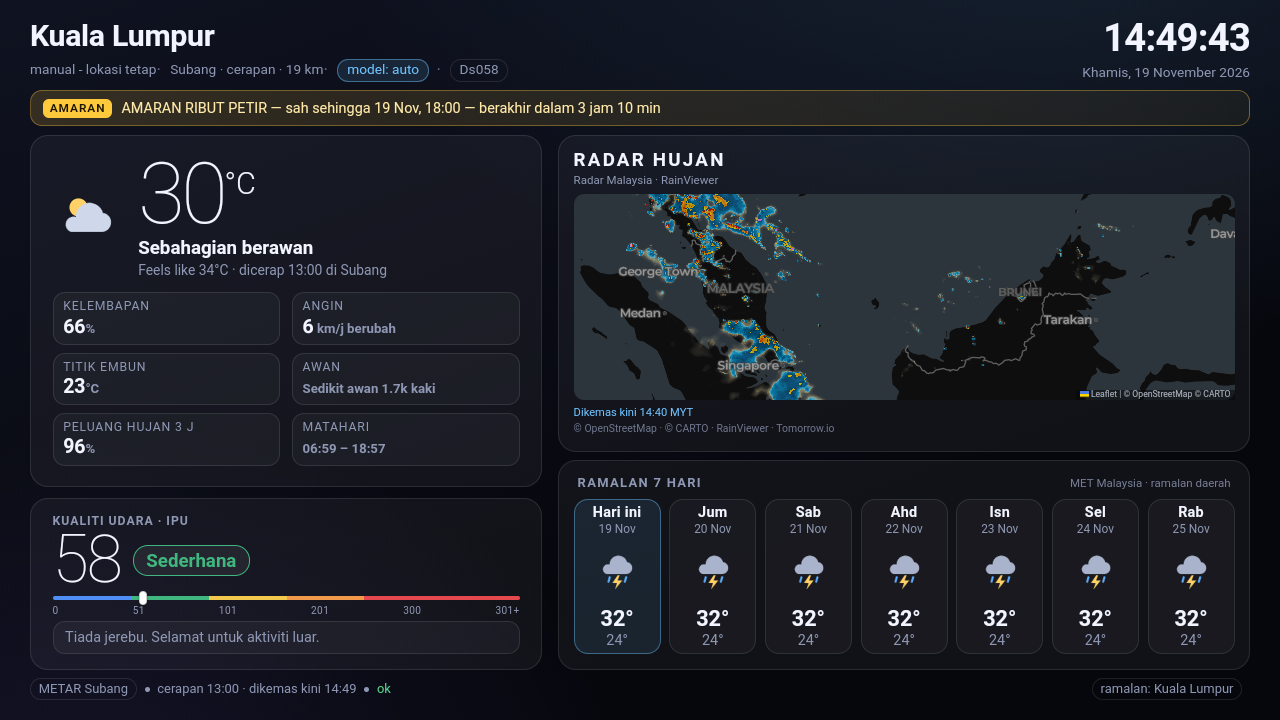
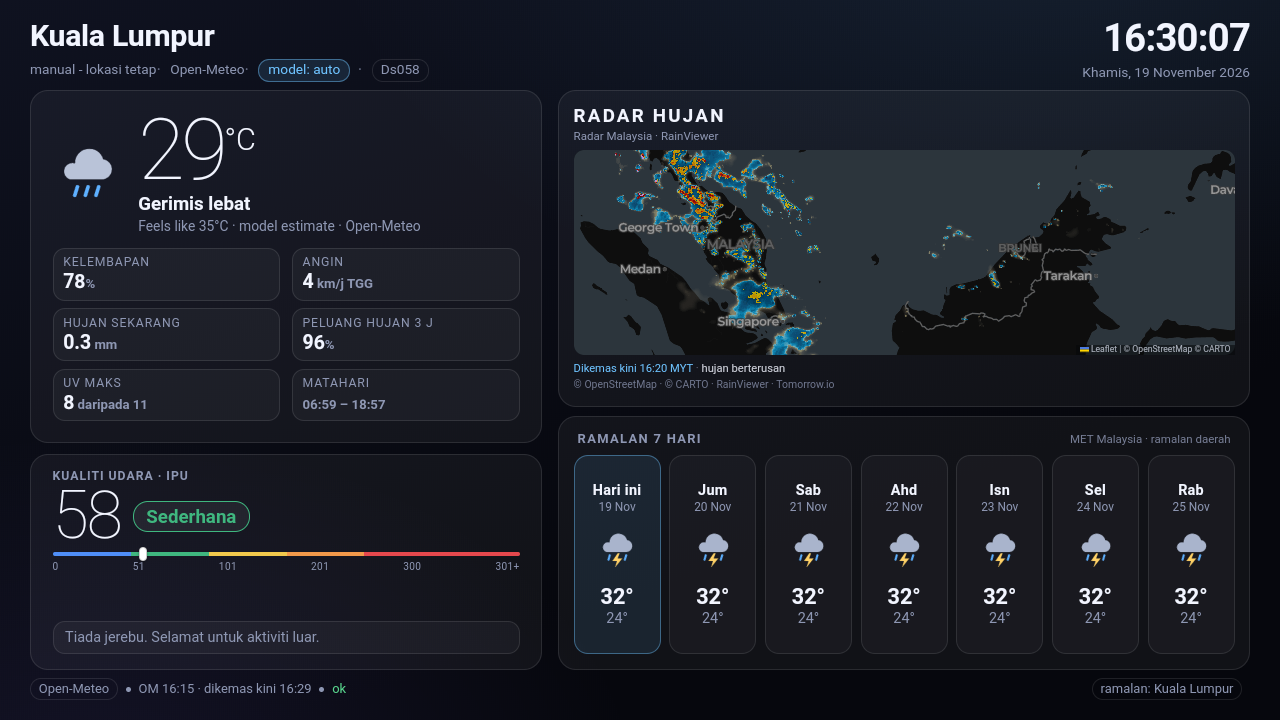
Keep station choices and offline fallback out of the public repo
- METAR station is now an optional ICAO id in kiosk.local.json; the page shows a generic 'stesen METAR' label and no station distance

- air-quality station-name fallback moved to kiosk.local.json; nearest-station matching is unchanged

- offline fallback uses the first district with coordinates from the public table instead of a hardcoded home district

- docs/kiosk.png recaptured with the generic label and no station name; README/AGENTS/SECURITY updated

diff --git a/static/index.html b/static/index.html
@@ -250,7 +250,7 @@
    ===================================================================== */
 const CONFIG = {
   // Manual override. When set, ISP geolocation is skipped entirely.
-  //   locationId : MET forecast location id (see data/locations.json, e.g. "Ds054")
+  //   locationId : MET forecast location id (see data/locations.json, e.g. "Ds001")
   //   lat/lon    : point used for the "current conditions" tile
   //   region     : state name, used to match MET advisories
   // Set to null to resolve from your ISP's IP geolocation instead.
@@ -262,14 +262,26 @@ const CONFIG = {
   // location via the "Set Location" dialog in the app without editing code.
   manual: /*__MANUAL__*/null,
 
-  // Weather source priority: Open-Meteo (1st) -> OpenWeatherMap (2nd) -> METAR Subang (3rd).
+  // Optional METAR station ICAO id for the ground-truth fallback. The
+  // repository ships null: a fresh clone simply skips that fallback (the
+  // keyless Open-Meteo path still works). Put your nearest airport's id in
+  // kiosk.local.json (git-ignored); build_html.py injects it. No station list
+  // or location hint is stored in the repository.
+  metarStation: /*__METAR__*/null,
+
+  // Optional station-name fallback for air quality when coordinates are
+  // unavailable. The nearest station normally wins, so the repo ships "".
+  hazeStation: /*__HAZE__*/"",
+
+  // Weather source priority: Open-Meteo (1st) -> OpenWeatherMap (2nd) ->
+  // a configured METAR station (3rd).
   // preferredModel: "auto" (priority chain above) | "openmeteo" | "openweathermap" | "metar"
   // Set a specific model to pin to one source regardless of priority.
   preferredModel: "auto",
 
   // Prefer a fresh airport observation (real METAR) over the model for the big
-  // current-conditions tile. Models run 2-3 C cold under KL's afternoon cloud
-  // and invent drizzle the airport is not reporting; an observation within
+  // current-conditions tile. Models run 2-3 C cold under tropical afternoon
+  // cloud and invent drizzle the airport is not reporting; an observation within
   // ~110 min is still better ground truth than a wrong model value.
   // Set false to always show the model value.
   preferObservation: true,
@@ -340,7 +352,7 @@ const dateFromYmd = ymd => new Date(ymd + "T12:00:00");
 const dayShort = ymd => DAY_SHORT[dateFromYmd(ymd).getDay()];
 const dateShort = ymd => { const d = dateFromYmd(ymd); return pad(d.getDate()) + " " + MONTH_SHORT[d.getMonth()]; };
 const dateTimeShort = t => { const d = dateFromYmd(ymdTZ(t)); return pad(d.getDate()) + " " + MONTH_SHORT[d.getMonth()] + ", " + clockHM(t); };
-const HAZE_STATION = "Kuala Lumpur";
+const HAZE_STATION = CONFIG.hazeStation;
 const HAZE_URL = "/api/haze";   // same origin — served locally by the kiosk app
 const HAZE_BANDS = ["Baik", "Sederhana", "Tidak Sihat", "Sangat Tidak Sihat", "Berbahaya"];
 const HAZE_COLORS = ["#4F8EF7", "#3FB77F", "#F2C94C", "#F2994A", "#E5484D"];
@@ -762,7 +774,9 @@ async function resolveLocation() {
   }
 
   if (!isp) {
-    const def = LOCATIONS.find(l => l.id === "Ds054") || LOCATIONS[0];
+    // No network at all: any district from the public table will do, so the
+    // panel still renders. Don't hard-code one person's home district.
+    const def = LOCATIONS.find(l => l.lat != null) || LOCATIONS[0];
     return { locationId: def.id, name: def.name, lat: def.lat, lon: def.lon, via: "fallback (ISP lookup failed)" };
   }
 
@@ -855,18 +869,14 @@ async function fetchMetForecast(loc) {
 
 /* ---- current conditions -------------------------------------------------
    Preference order:
-     1. a real METAR observation from the nearest MET airport station
-        (Subang WMSA, or KLIA WMKK) - this is what "no rain here" looks like;
+     1. a real METAR observation from the station configured in kiosk.local.json
+        (an ICAO id; the repository ships none) - this is "no rain here";
      2. otherwise an Open-Meteo model estimate, clearly labelled as such.
 
-   A single model blend is unreliable in convective weather: on 2026-10-30 the
-   default blend claimed 0.7 mm of showers over Kuala Lumpur while Subang was
-   reporting 33 C, 10 km visibility and no rain at all.
+   A single model blend is unreliable in convective weather: it can claim
+   showers while the nearest airport reports 33 C, 10 km visibility and no
+   rain at all. A fresh observation is better ground truth.
    ---------------------------------------------------------------------- */
-const METAR_STATIONS = [
-  { id: "WMSA", name: "Subang", lat: 3.1306, lon: 101.5493 },
-  { id: "WMKK", name: "KLIA",   lat: 2.7456, lon: 101.7099 }
-];
 
 const WX_TOKEN = /^[-+]?(VC)?(TS|SH|RA|DZ|GR|GS|SN|BR|HZ|FG|FU|DU|SA|SQ|PO|FC|SS|DS|PL|IC|UP)+$/;
 const CLOUD_LABEL = { FEW: "Sedikit", SCT: "Tersebar", BKN: "Pecah", OVC: "Mendung" };
@@ -909,21 +919,16 @@ function parseMetars(text) {
 }
 
 async function fetchObservation(loc) {
-  if (loc.lat == null || loc.lon == null) return null;
-  const near = METAR_STATIONS
-    .map(s => ({ ...s, km: haversine(loc.lat, loc.lon, s.lat, s.lon) }))
-    .sort((a, b) => a.km - b.km);
-  const r = await fetch("/api/metar?ids=" + near.map(s => s.id).join(","),
+  const id = CONFIG.metarStation;
+  if (!id || loc.lat == null || loc.lon == null) return null;
+  const r = await fetch("/api/metar?ids=" + encodeURIComponent(id),
                         { cache: "no-store" });
   if (!r.ok) throw new Error("METAR HTTP " + r.status);
   const obs = parseMetars(await r.text());
-  for (const s of near) {
-    const o = obs[s.id];
-    if (!o) continue;
-    if ((Date.now() - o.time) / 60000 > 150) continue;   // stale report
-    return { ...o, station: s.name, km: Math.round(s.km) };
-  }
-  return null;
+  const o = obs[id];
+  if (!o) return null;
+  if ((Date.now() - o.time) / 60000 > 150) return null;   // stale report
+  return { ...o, station: "stesen METAR", km: null };
 }
 
 function clockHM(t) {
@@ -1029,7 +1034,7 @@ function popNextHours(hourly, nowIso, hours) {
   } catch (e) { return null; }
 }
 
-/* OpenWeatherMap current conditions - more local than Subang METAR */
+/* OpenWeatherMap current conditions - closer than a distant METAR station */
 const OWM_TO_ICON = {
   200: "storm", 201: "storm", 202: "storm", 210: "storm", 211: "storm", 212: "storm", 221: "storm", 230: "storm", 231: "storm", 232: "storm",
   300: "rain", 301: "rain", 302: "rain", 310: "rain", 311: "rain", 312: "rain", 313: "rain", 314: "rain", 321: "rain",
@@ -1216,7 +1221,7 @@ const MODEL_LABEL = { auto: "auto", openmeteo: "open-meteo", openweathermap: "op
 function renderNow(loc, cur, owm, obs, omFallback) {
   $("placeName").textContent = loc.name;
 
-  /* Fallback chain: Open-Meteo (1st) -> OpenWeatherMap (2nd) -> METAR Subang (3rd) */
+  /* Fallback chain: Open-Meteo (1st) -> OpenWeatherMap (2nd) -> configured METAR (3rd) */
   const sourceLabel = cur ? "Open-Meteo" : (owm ? "OpenWeatherMap" : (obs ? obs.station + " · cerapan" : ""));
   const sourceKm = obs && !cur && !owm ? obs.km : null;
   const modelBtn = '<button type="button" class="badge model-btn" id="modelBadge" title="Sumber model cuaca — tekan untuk tukar">model: ' + escapeHtml(MODEL_LABEL[currentModel()] || "auto") + '</button>';
@@ -1288,7 +1293,7 @@ function renderNow(loc, cur, owm, obs, omFallback) {
     return;
   }
 
-  /* ---- Priority 3: METAR observation at Subang (18 km away) ---- */
+  /* ---- Priority 3: METAR observation from the configured station ---- */
   if (obs) {
     const obsRain = obs ? /(RA|SH|DZ|GR|GS|PL)/.test(obs.wx.join(" ")) : null;
     const hour = Number(new Date(obs.time).toLocaleString("en-GB", {

diff --git a/tools/build_html.py b/tools/build_html.py
@@ -49,22 +49,34 @@ def main():
     data = json.dumps(compact, ensure_ascii=False, separators=(",", ":"))
     html = tpl.replace(marker, data)
 
-    # Home location: kept out of the repository. kiosk.local.json (git-ignored)
-    # may contain {"manual": {"locationId": ..., "lat": ..., "lon": ...}};
-    # without it the page falls back to ISP/GPS resolution.
-    manual_marker = "/*__MANUAL__*/null"
-    if manual_marker not in html:
-        raise SystemExit(f"placeholder {manual_marker!r} not found in {TPL}")
-    manual = "null"
+    # Private settings: kept out of the repository. kiosk.local.json may contain
+    # {"manual": {...}, "metar": "EGLL", "hazeStation": "..."}; without it the
+    # page falls back to ISP/GPS, skips the METAR station and picks the nearest
+    # air-quality station by coordinates.
+    placeholders = {
+        "/*__MANUAL__*/null": "manual",
+        "/*__METAR__*/null": "metar",
+        '/*__HAZE__*/""': "hazeStation",
+    }
+    for marker, key in placeholders.items():
+        if marker not in html:
+            raise SystemExit(f"placeholder {marker!r} not found in {TPL}")
     local = os.path.join(ROOT, "kiosk.local.json")
+    cfg = {}
     try:
         with open(local, encoding="utf-8-sig") as f:
             cfg = json.load(f)
-        if cfg.get("manual"):
-            manual = json.dumps(cfg["manual"], ensure_ascii=False, separators=(",", ":"))
     except (IOError, OSError, ValueError):
         pass
-    html = html.replace(manual_marker, manual)
+    for marker, key in placeholders.items():
+        value = cfg.get(key)
+        if key == "hazeStation":
+            injected = json.dumps(value or "", ensure_ascii=False)
+        elif value:
+            injected = json.dumps(value, ensure_ascii=False, separators=(",", ":"))
+        else:
+            injected = "null"
+        html = html.replace(marker, injected)
 
     os.makedirs(os.path.dirname(OUT), exist_ok=True)
     with open(OUT, "w", encoding="utf-8") as f:

diff --git a/AGENTS.md b/AGENTS.md
@@ -114,10 +114,12 @@ outside the viewport; run it after any layout change.
   git-ignored. Environment variables `TOMORROW_KEY`, `OWM_KEY`, `CARTO_KEY`
   override it. A missing key fails `build_apk.py` on purpose; a running APK
   answers `503 Not Configured` for that proxy.
-- `kiosk.local.json` = `{"manual": {"locationId": "...", "lat": ..., "lon": ...,
-  "region": "...", "note": "..."}}`, git-ignored. It is injected into
-  `CONFIG.manual` by `build_html.py`; the repo ships `manual: null` (ISP/GPS
-  fallback). Never commit home coordinates, a building name or a device address.
+- `kiosk.local.json` = `{"manual": {...}, "metar": "...", "hazeStation": "..."}`,
+  git-ignored. `build_html.py` injects all three; the repo ships `manual: null`,
+  `metarStation: null`, `hazeStation: ""`. Without them the page resolves from
+  GPS/ISP, skips the METAR fallback and picks the nearest air-quality station.
+  Never commit home coordinates, a station id, a building name or a device
+  address. The page shows "stesen METAR", never the configured station name.
 - Read local JSON with `utf-8-sig`: Notepad and PowerShell add a BOM, and plain
   `utf-8` silently returns nothing.
 - Before committing, scan the staged tree (review anything it prints):

diff --git a/README.md b/README.md
@@ -77,7 +77,19 @@ Order of preference (`CONFIG.manual` in `static/index.html`):
    (277 of the 440 districts have coordinates, from geoBoundaries ADM2).  
    Useful when GPS is denied or the device has no GPS hardware.
 
-4. **Fallback** — Klang (Ds054) if the network is unreachable.
+4. **Fallback** — the first district with coordinates in `data/locations.json`
+   if even the network is down, so the panel still renders.
+
+The private `kiosk.local.json` can also carry optional `metar` (an ICAO id for
+the ground-truth fallback) and `hazeStation` (a station-name fallback for air
+quality). The repository ships `null` / `""` for both; a fresh clone simply
+skips those fallbacks. Example:
+
+```json
+{ "manual": { "locationId": "Ds054", "lat": 3.0, "lon": 101.4,
+              "region": "Selangor", "note": "manual" },
+  "metar": "EGLL", "hazeStation": "" }
+```
 
 Find ids in `data/locations.json`, or run `python tools/find_location.py kuala`.
 

diff --git a/SECURITY.md b/SECURITY.md
@@ -9,8 +9,10 @@ CARTO) are **never committed**. They live in `keys.local.json` (git-ignored) or
 the environment, and are injected at build time into the APK only.
 
 `keys.local.json`, `kiosk.local.json`, `.env`, `dist/`, `android/assets/`,
-`.sdk/`, `build/` and `cache/` are git-ignored. If you build from source, keep
-your own keys and home coordinates out of commits.
+`.sdk/`, `build/` and `cache/` are git-ignored. `kiosk.local.json` also holds
+the home location, the METAR station id and the air-quality station fallback;
+the shipped page has none of them. If you build from source, keep your own keys
+and home coordinates out of commits.
 
 ## Reporting a vulnerability
 
